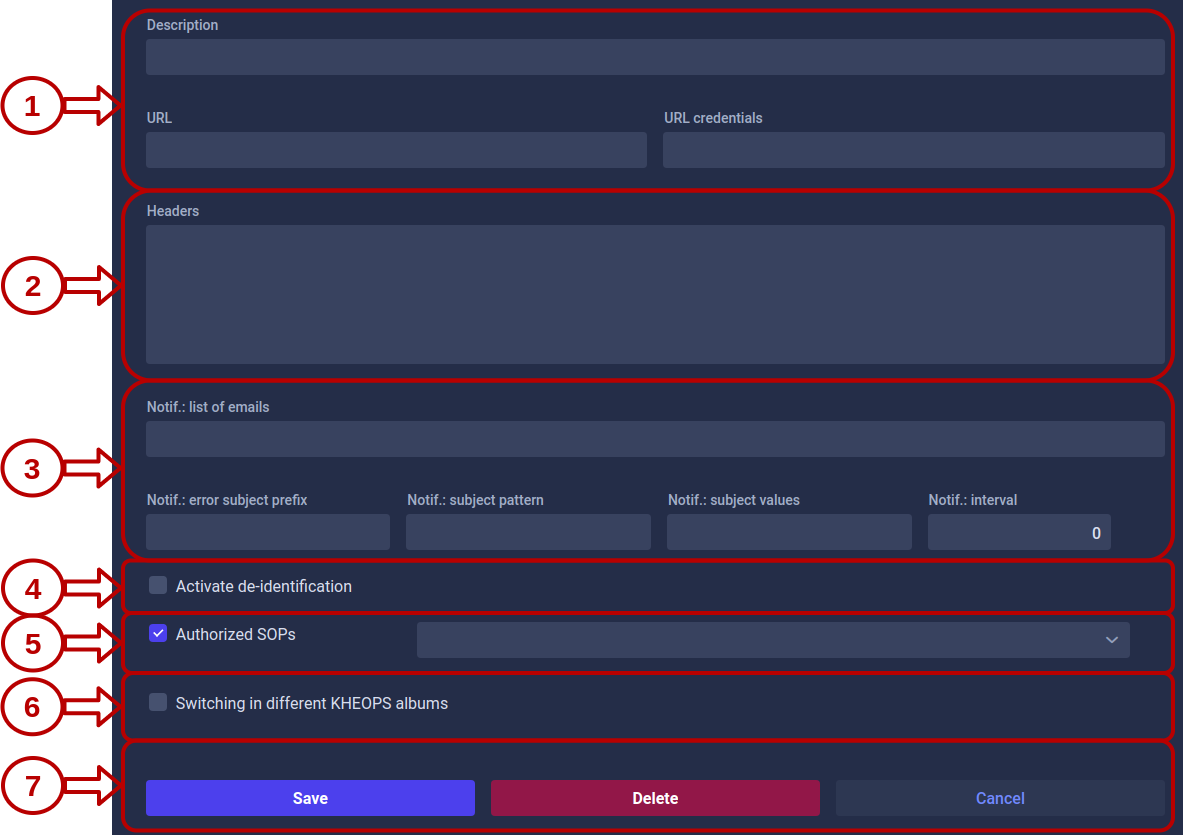
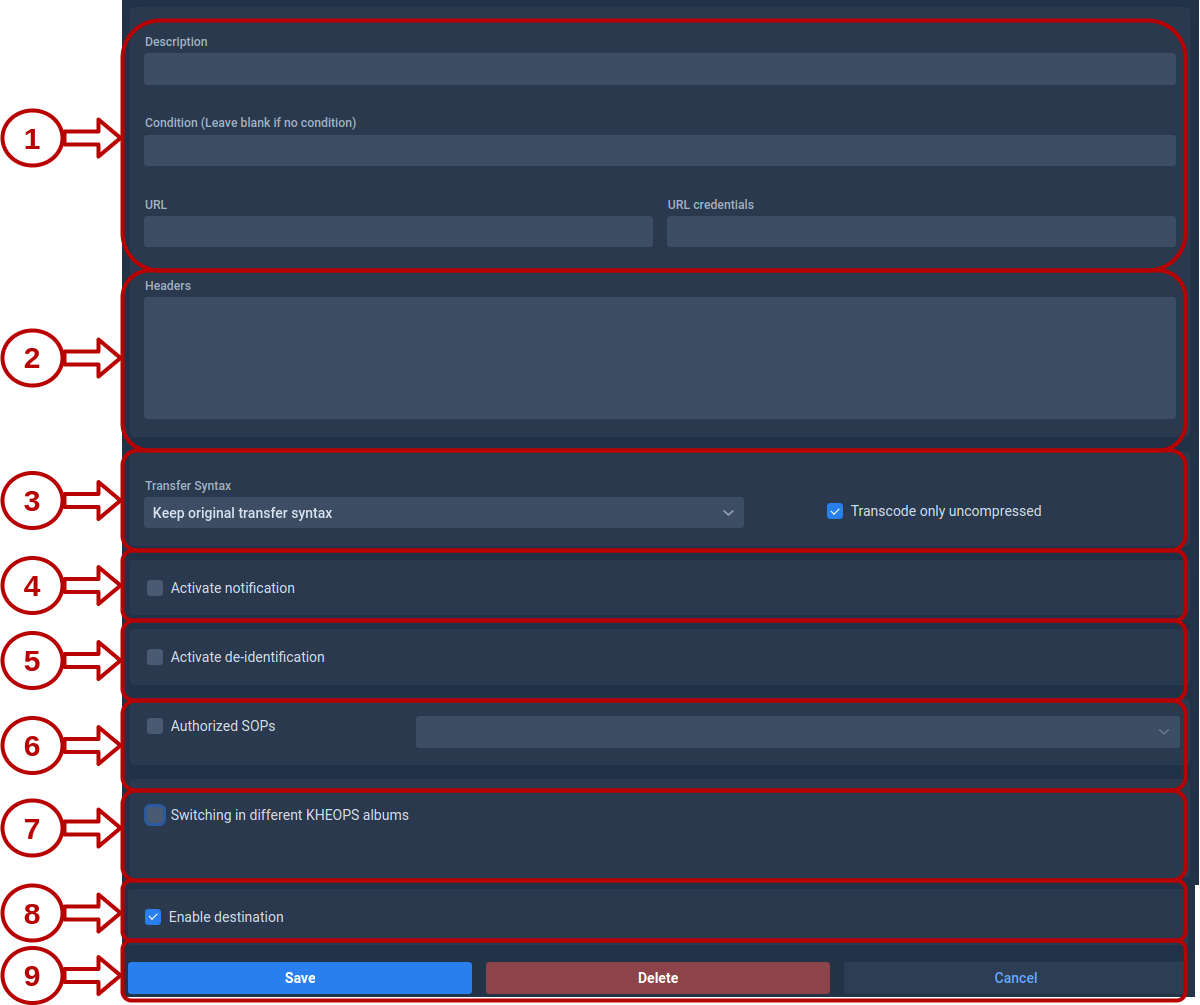
Add condition in the destination

Changed region(s): [[0.0, 0.0, 1.0, 1.0]]

diff --git a/docs/userguide/userguide_gateway.md b/docs/userguide/userguide_gateway.md
@@ -153,6 +153,8 @@ For a STOW destination the following is mandatory:
 
 The URL is the DICOM endpoint of your final destination.
 
+The Condition, is a field to define a condition for the destination. If the condition is met, the destination will be activated.  See [Destination Conditions](conditions) for more details.
+
 The URL credentials is the STOW-RS service (format is \"user:password\")
 
 **2. Destination headers**
@@ -166,7 +168,11 @@ To add the header *Authorization: Bearer 123456790* you must write following the
 <value>Bearer 1234567890</value>
 ```
 
-**3. Notifications**
+**3. Transfer Syntax**
+
+This field will define the transfer syntax used.
+
+**4. Notifications**
 
 These fields will allow you to define the emails to be notified during various events that take place during the sending.
 
@@ -175,11 +181,13 @@ These fields will allow you to define the emails to be notified during various e
 * Subject values: Values injected in the pattern [PatientID StudyDescription StudyDate StudyInstanceUID]. Default value: PatientID,StudyDescription
 * Interval: Interval in seconds for sending a notification (when no new image is arrived in the archive folder). Default value: 45
 
-**4. De-identification**
+<img src="resources/destination_notifications.png" alt="Creation source" style="zoom:50%;" />
+
+**5. De-identification**
 
 The de-identification in the STOW destination will be explained below, in the section [Activate the de-identification](#activate-the-de-identification)
 
-**5. Authorized SOPs**
+**6. Authorized SOPs**
 
 This field allows you to define a filter on a list of SOPs. The chosen SOPs will serve as a filter for KARNAK when sending. This allow you to define a destination which is applied only for SOPs of your choice. The [SOPs present](http://dicom.nema.org/medical/Dicom/current/output/chtml/part04/sect_B.5.html) in the list are defined by DICOM.
 
@@ -191,7 +199,7 @@ The following illustration shows the list of SOPs with two SOPs selected.
 
 <img src="resources/destination_SOPfilter.png" alt="Creation source" style="zoom:50%;" />
 
-**6. Switching in different KHEOPS albums**
+**7. Switching in different KHEOPS albums**
 
 You have the possibility of sharing your data in different KHEOPS album. For this you must use a DICOM endpoint from KHEOPS.
 
@@ -207,7 +215,15 @@ The following illustration show a scenario of this functionality. The illustrate
 
 Details for configuring this feature are explained in the [KHEOPS](kheops#create-a-switching-kheops-album) chapter.
 
-**7. Actions buttons**
+**8. Enable the destination**
+
+This field allows you to enable or disable a destination.
+
+If "Enable destination" **is checked**, the destination is enable.
+
+If "Enable destination" **is not checked**, the destination is disable.
+
+**9. Actions buttons**
 
 You have three action buttons available.
 
